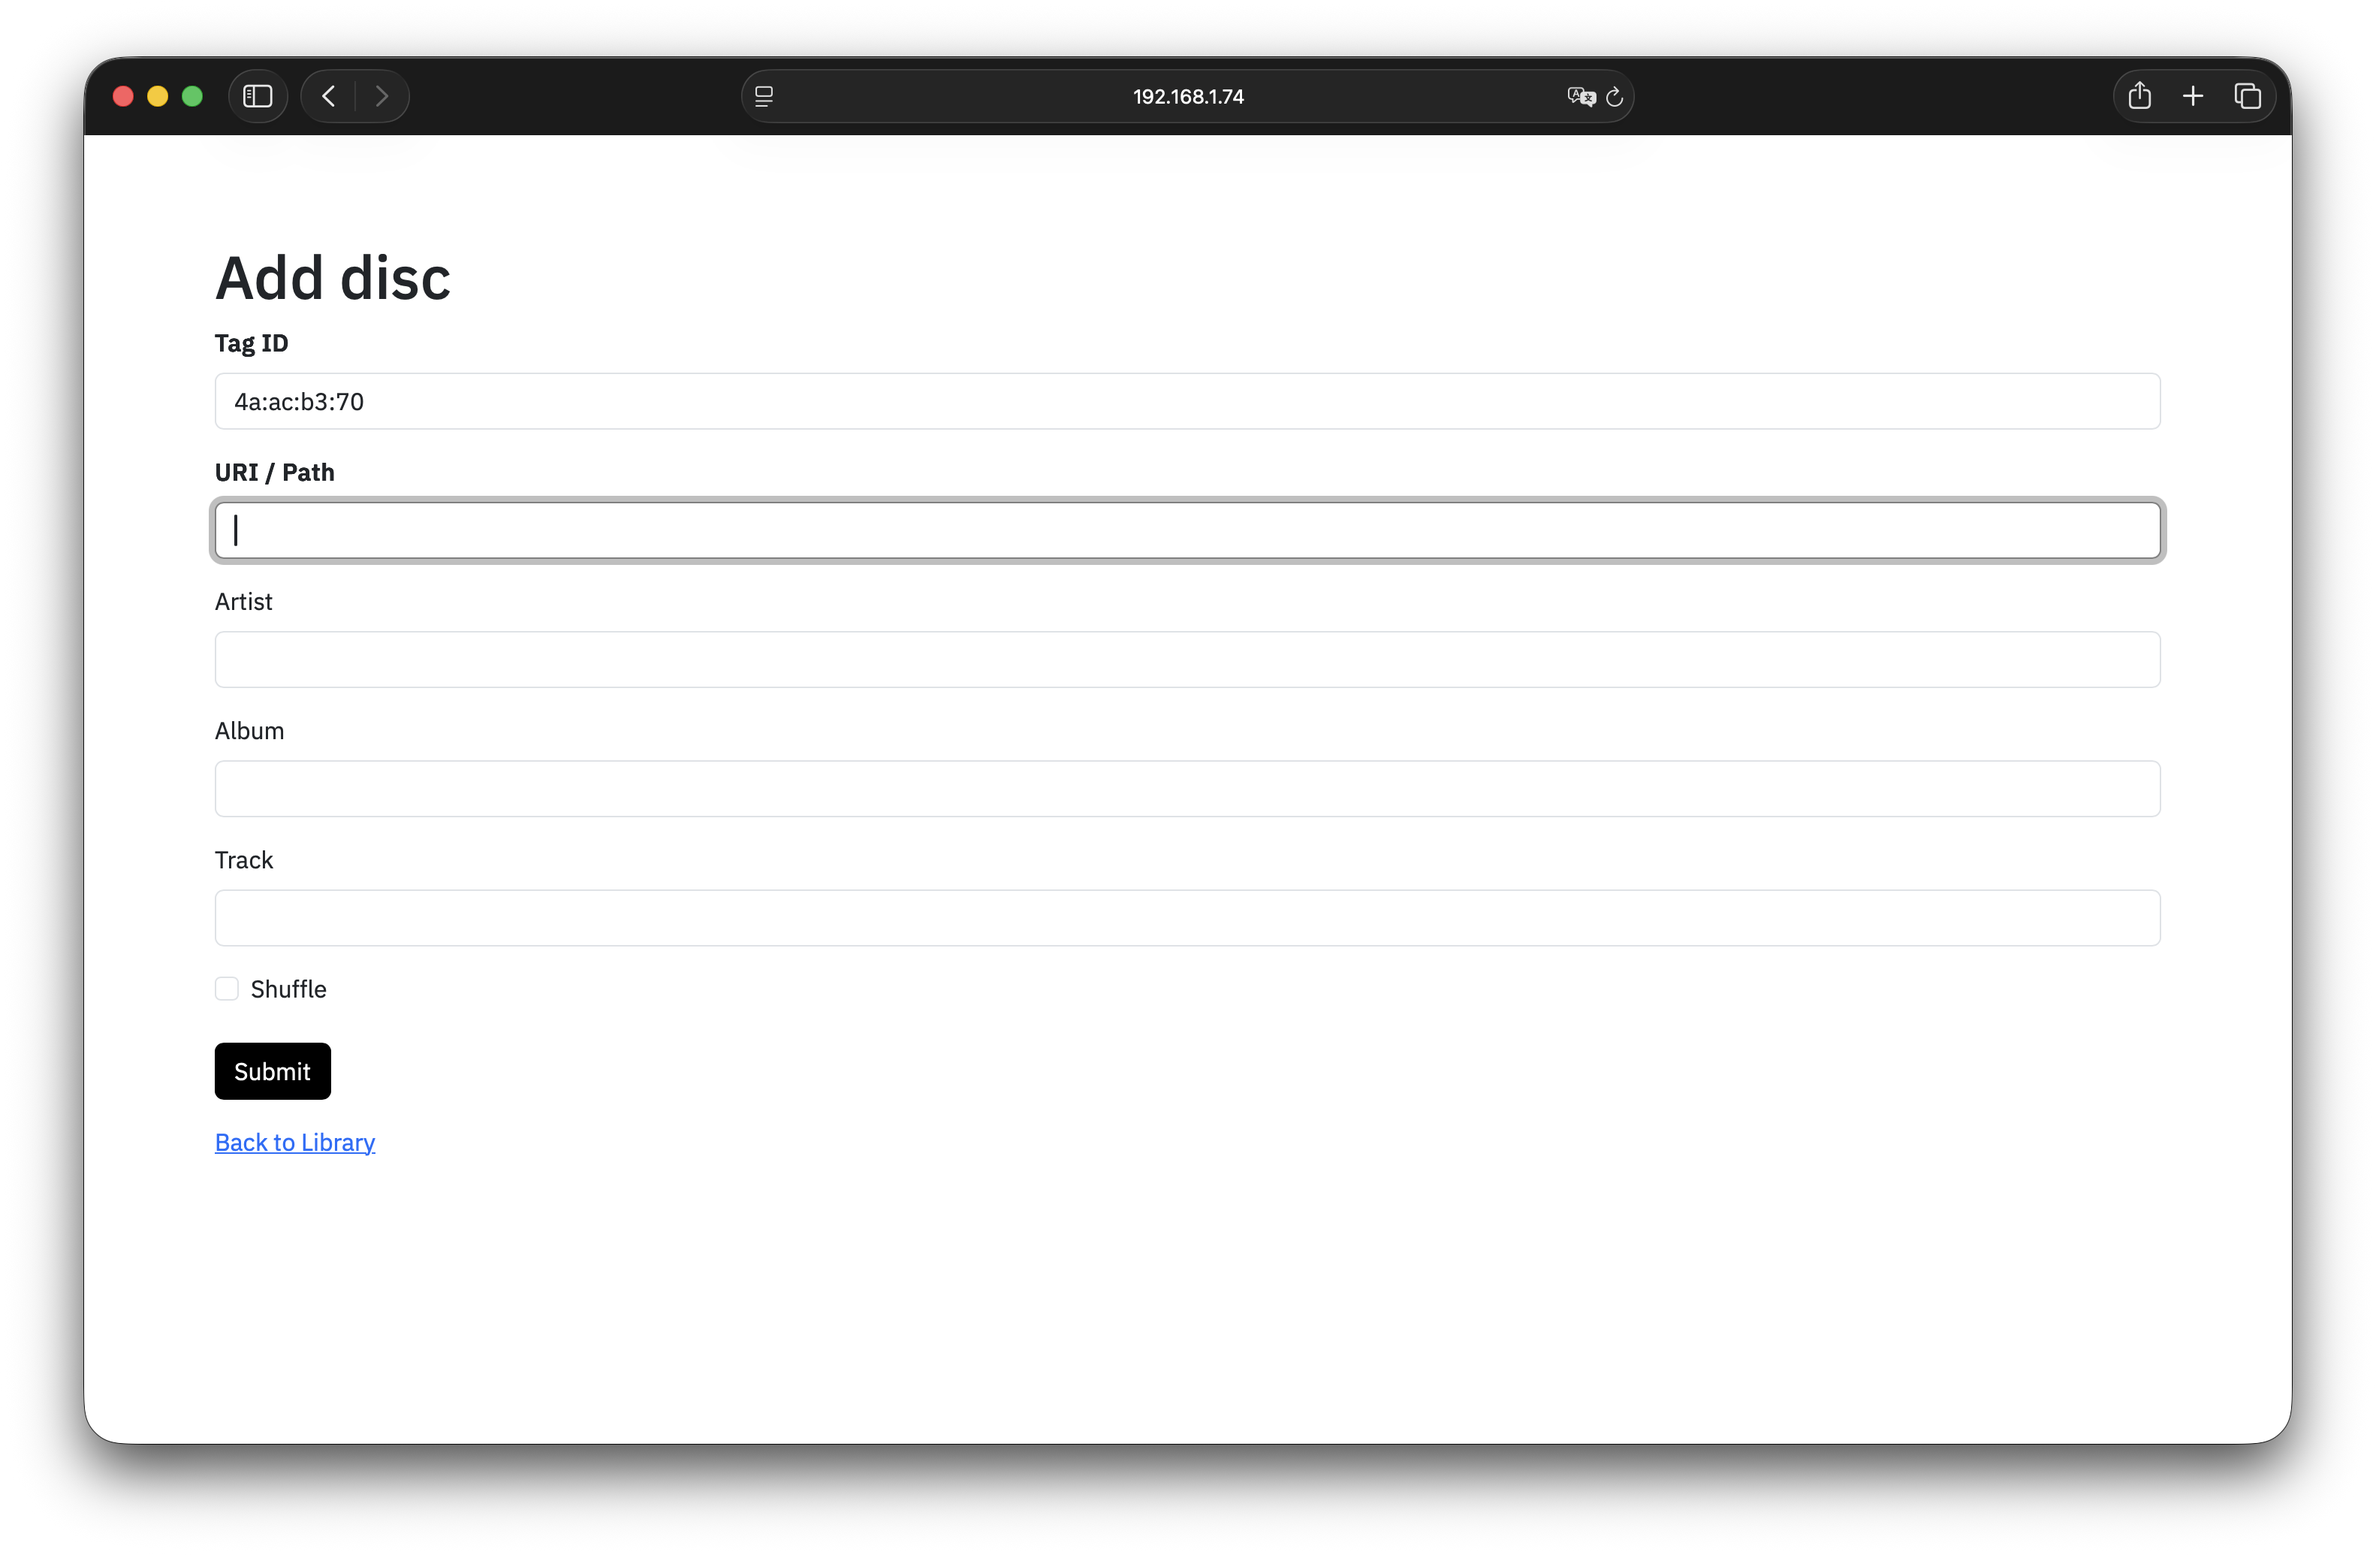
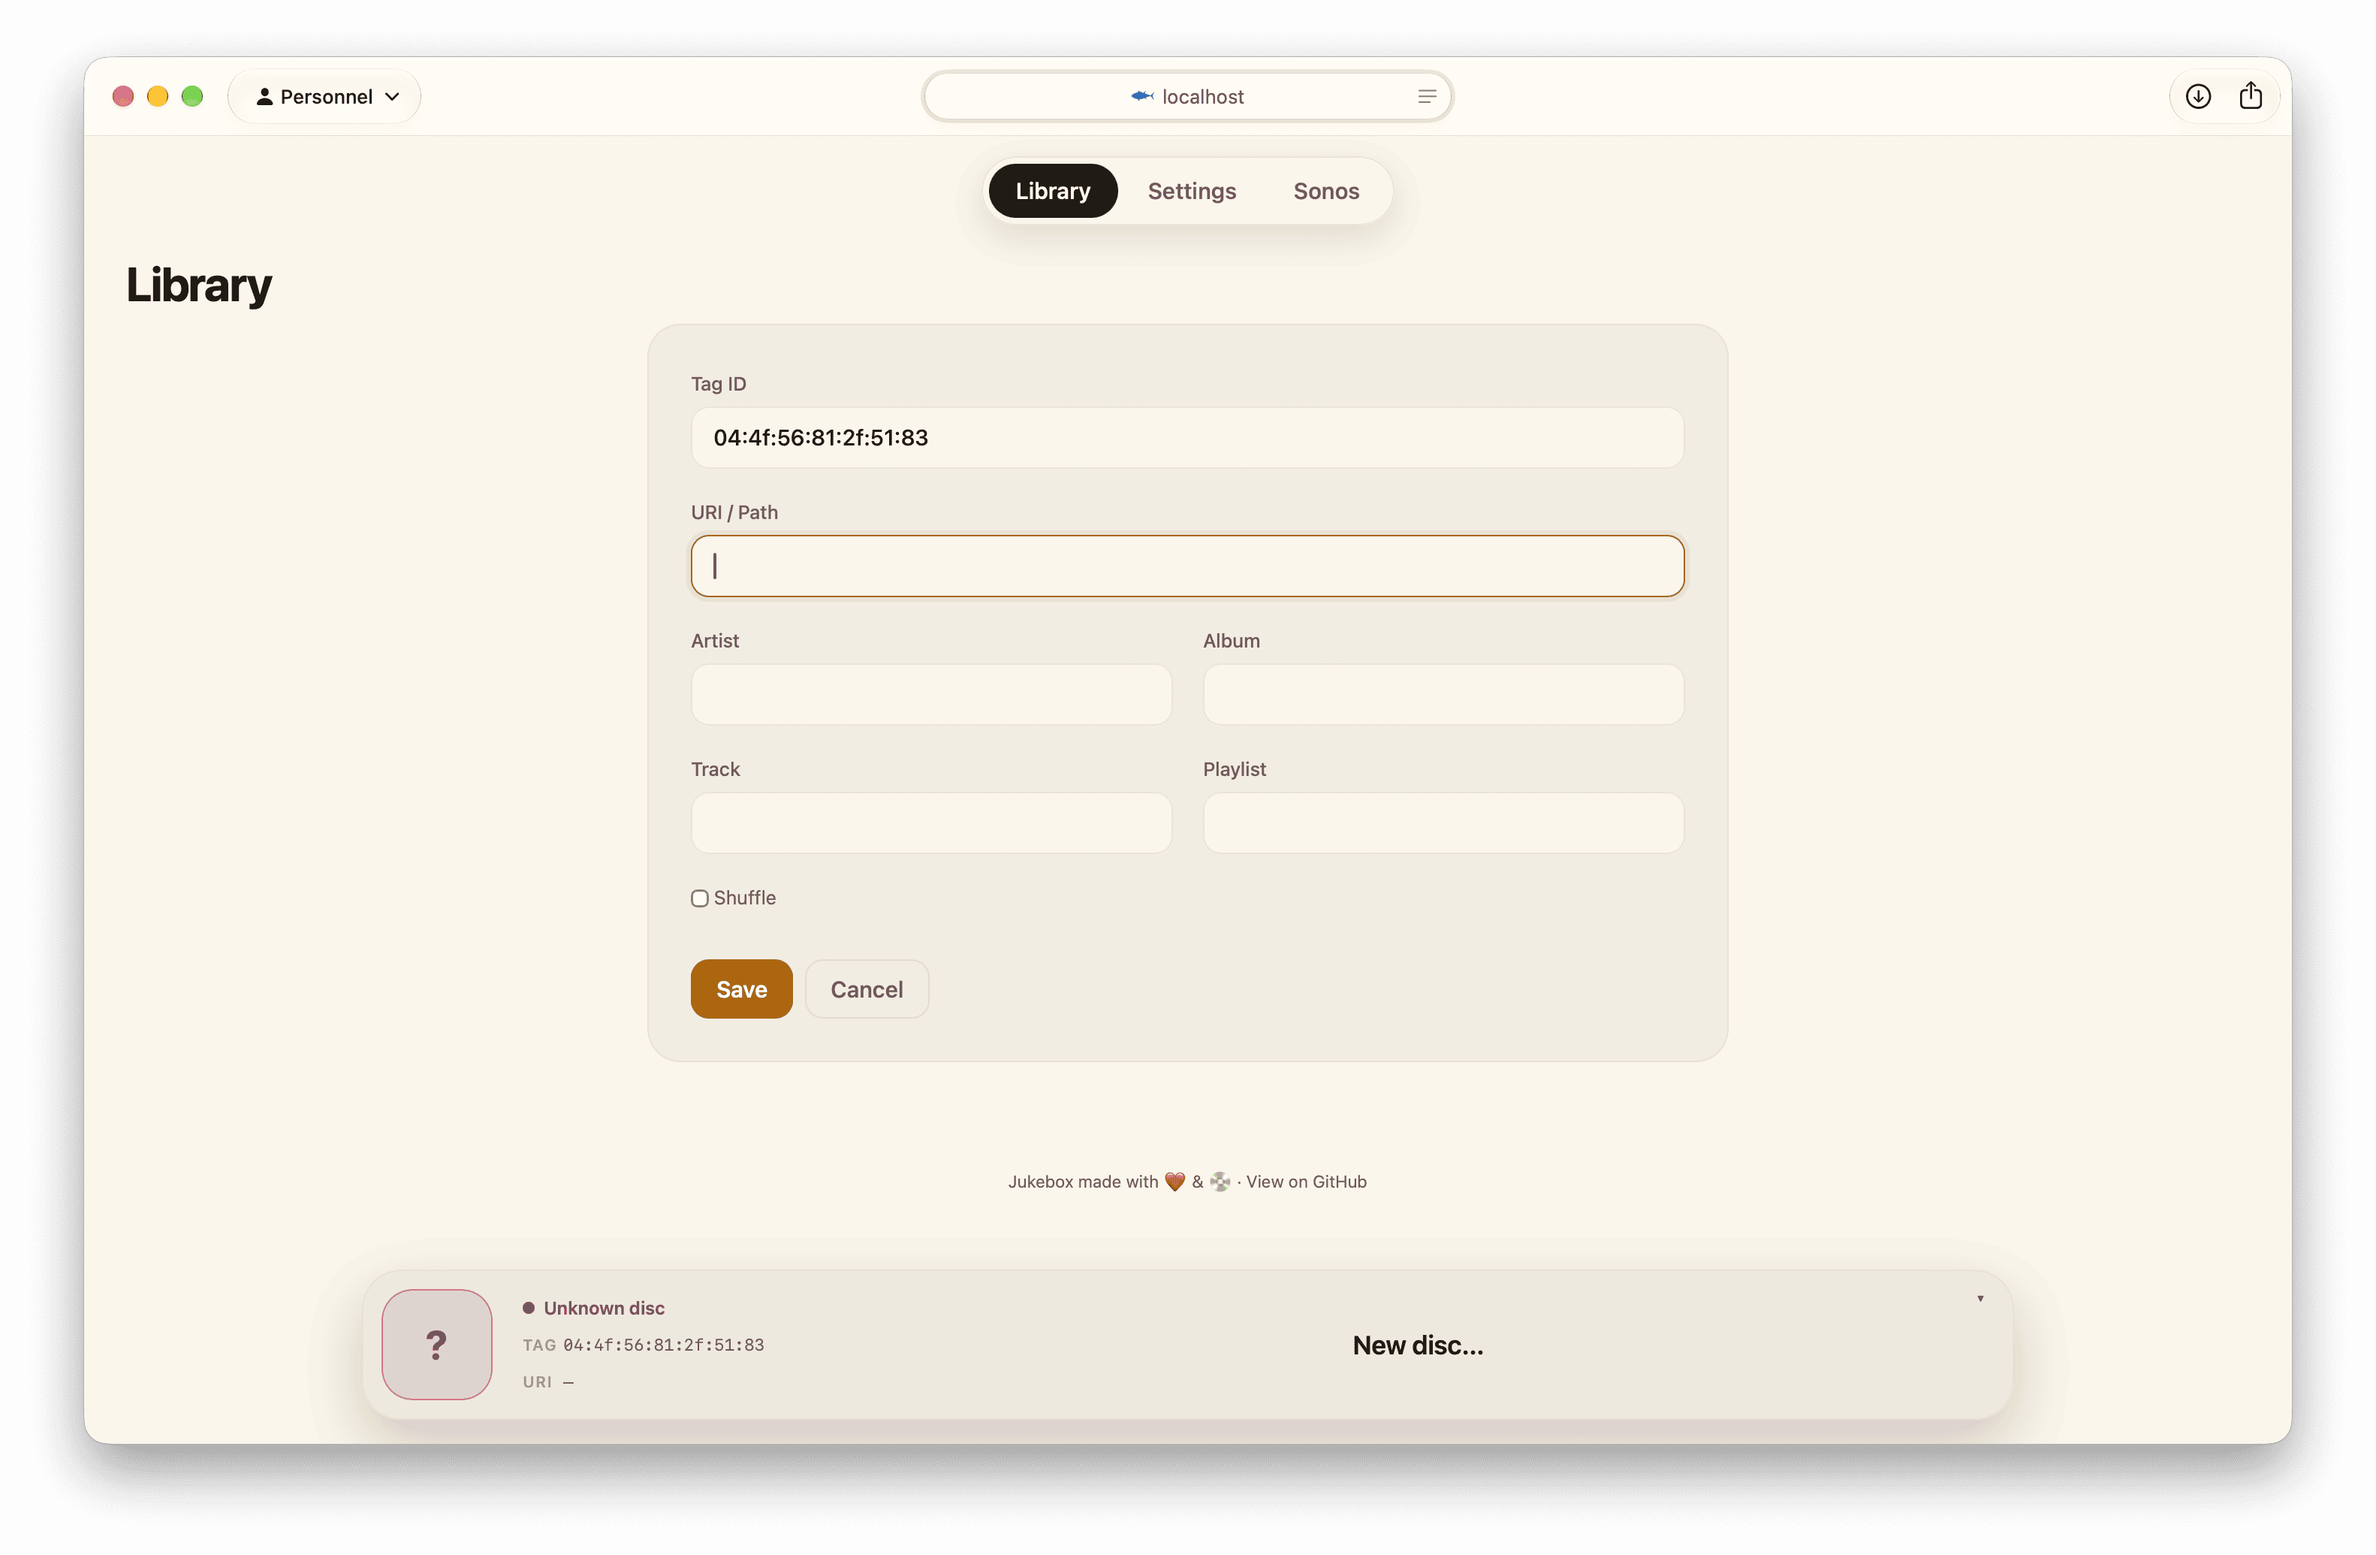
📝 replace the README screenshots with the Svelte admin UI

diff --git a/README.md b/README.md
@@ -115,9 +115,9 @@ Launch the web UI (requires the `ui` extra):
 jukebox-admin ui
 ```
 
-![Jukebox Admin UI showing a disc library table with three entries and a yellow warning banner indicating an unknown NFC tag is on the reader, ready to be added](docs/img/ui-library-index-unknown-nfc-tag-banner.png)
+![Jukebox Admin UI showing the disc library table, with the floating Reader panel reporting an unknown disc on the NFC reader, ready to be added](docs/img/ui-library-index-unknown-nfc-tag-banner.png)
 
-![Add disc form with the NFC tag ID pre-filled, and empty fields for URI, artist, album, track and shuffle](docs/img/ui-add-disc-form.png)
+![Add disc form with the Tag ID pre-filled from the reader, and empty fields for URI / Path, artist, album, track, playlist and shuffle](docs/img/ui-add-disc-form.png)
 
 ## Usage
 
